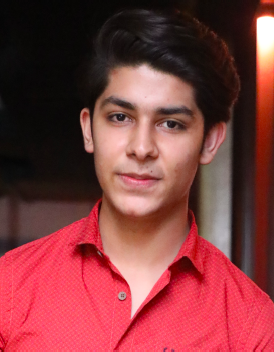
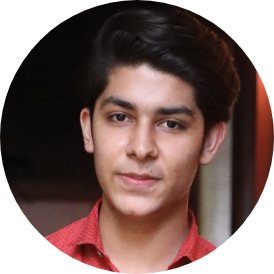
Add files via upload

diff --git a/index.html b/index.html
@@ -1,0 +1,89 @@
+<!DOCTYPE html>
+<html lang="en" dir="ltr">
+  <head>
+    <meta charset="utf-8">
+    <title>Ayush Resume Website</title>
+    <link rel="stylesheet" href="style.css">
+    <link rel="icon" href="favicon.ico">
+    <link href="https://fonts.googleapis.com/css?family=Merriweather|Montserrat|Sacramento&display=swap" rel="stylesheet">
+  </head>
+  <body>
+  <div class="top-container">
+  <img class="top-cloud" src="lamp1.png" alt="cloud-img">
+  <h1>I'm Ayush</h1>
+  <h2 id="pro">a <span class="pro">pro</span>grammer.</h2>
+  <img class="bottom-cloud" src="lamp1.png" alt="cloud-img">
+  <img class="abc" src="personcoding.png" alt="mountain-img">
+  </div>
+  <div class="middle-container">
+    <div class="profile">
+      <img class="profilepic" src="ayu.png" alt="profile-pic">
+      <h2>Hello.</h2>
+      <div class="intro">
+        <p> I'm Currently pursuing Bachelor of Technology (B.Tech.) degree from Maharaja Agrasen Institute of Technology in the domain of Electronics and Communication Engineering.</p>
+        <p> Looking for opportunities in the programming and development sector.</p>
+        <p> I am tech-savvy and tech-enthusiast, who's always ready to explore new opportunities and accept new challenges.</p>
+        <p> I am Hardworking, Smart, Delligent and ready to learn. </p>
+
+      </div>
+
+
+
+
+
+      </div>
+      <hr>
+      <div class="skills">
+
+      <h2>My Skills.</h2>
+
+      <div class="skill-row">
+
+        <img class="skillimg" src="giphy1.gif" alt="">
+        <h3>DESIGN AND DEVELOPMENT</h3>
+        <p>I was always keen towards learning coding. I started with C++, C, Python and JAVA. Then did a bit of swift (iOS) and now am currently working on my skills as a fullstack WEB Developer.</p>
+      </div>
+
+      <div class="skill-row">
+        <img class="skillimg2" src="giphy3.gif" alt="">
+        <h3>GAMING</h3>
+        <p class="gamingdes">Since Childhood, One thing has been my passion that is Gaming. I Just Love Gaming, Online Games, Offline games, you just name it ; I've got it. Since i liked gaming, i have developed spome basic games as well, like TIC TAC TOE on JAVA, A color guessing game on Java Script and a Memory Game on Java Script. Currently I am working on a Flappy Bird on Python and AI to surpass it.</p>
+      </div>
+
+    </div>
+        <!-- <h3>EDUCATION</h3>
+        <p>CLASS X - DPS MATHURA ROAD</p>
+        <p>CLASS XII - DPS MATHURA ROAD</p>
+        <h3>EXPERIENCE</h3>
+        <p>Intern - RITES</p> -->
+
+
+        <hr>
+    <div class="Experience">
+      <h2>MY PROJECTS</h2>
+      <img class = "project" src="dating.png" alt="Dating Site">
+      <img class = "project" src="color.png" alt="Color Guesser Game">
+      <img class = "project" src="blog.png" alt="Photo Blog Website">
+
+    </div>
+      <hr>
+
+    <div class="contact-me">
+      <h2>Get In Touch</h2>
+      <h3>If you Love Gaming as much as I do!</h3>
+      <p id="down">Let's Play a match or two after we get your code done!</p>
+      <a class="btn" href="mailto:vayush223@gmail.com">CONTACT ME</a>
+    </div>
+  </div>
+
+  <div class="bottom-container">
+    <a class="footer-link" href="https://www.linkedin.com/meayushverma">LinkedIn</a>
+    <a class="footer-link" href="https://twitter.com/">Twitter</a>
+    <a class="footer-link" href="https://Instagram.com/meayushverma">Instagram</a>
+    <p class="copyright">© 2018 Ayush Verma.</p>
+  </div>
+
+
+
+  </body>
+</html>

diff --git a/style.css b/style.css
@@ -1,0 +1,216 @@
+body{
+margin:0;
+text-align: center;
+font-family: 'Merriweather', serif;
+background-color: #E7EFFC;
+}
+
+h1{
+margin: 50px auto 0 auto;
+font-family: 'Sacramento', cursive;
+font-size: 5.625rem;
+color: #051E3E;
+}
+
+h2{
+  font-family: 'Montserrat', sans-serif;
+  font-size: 2.5rem;
+  color: #051E3E;
+  padding-bottom: 10px;
+}
+
+h3{
+
+  font-family: 'Montserrat', sans-serif;
+  color: #2A4D69;
+}
+
+p{
+  line-height: 2;
+  color: #283655;
+
+}
+
+
+a{
+  color: #E7EFFC;
+  font-family: 'Montserrat', sans-serif;
+  text-decoration: none;
+  margin: 40px 10px;
+
+}
+
+a:hover{
+
+  color: #E7EFFC;
+}
+
+hr{
+
+border-style: none;
+border-top-style: dotted;
+border-color: #283655;
+border-width: 6px;
+width: 6%;
+margin: 100px auto;
+}
+
+.abc{
+width: 40%;
+}
+
+.bottom-container{
+
+  background-color: #1E1F26;
+  padding: 50px 0 20px;
+
+}
+
+.bottom-cloud{
+  position: absolute;
+  left: 100px;
+  top: 0;
+  width: 15%;
+
+}
+
+.btn{
+  background: #283655;
+  background-image: -webkit-linear-gradient(top, #283655, #4D648D);
+  background-image: -moz-linear-gradient(top, #283655, #4D648D);
+  background-image: -ms-linear-gradient(top, #283655, #4D648D);
+  background-image: -o-linear-gradient(top, #283655, #4D648D);
+  background-image: linear-gradient(to bottom, #283655, #4D648D);
+  -webkit-border-radius: 8;
+  -moz-border-radius: 8;
+  border-radius: 8px;
+  font-family: 'Montserrat', sans-serif;
+  color: #ffffff;
+  font-size: 20px;
+  padding: 10px 20px 10px 20px;
+  text-decoration: none;
+}
+
+.btn:hover {
+  background: #30e3cb;
+  background-image: -webkit-linear-gradient(top, #1E1F26, #FFFFFF);
+  background-image: -moz-linear-gradient(top, #1E1F26, #FFFFFF);
+  background-image: -ms-linear-gradient(top, #1E1F26, #FFFFFF);
+  background-image: -o-linear-gradient(top, #1E1F26, #FFFFFF);
+  background-image: linear-gradient(to bottom, #1E1F26, #FFFFFF);
+  text-decoration: none;
+}
+
+.contact-me{
+
+  margin: 40px auto 60px;
+  width: 40%;
+}
+
+
+.copyright{
+
+  font-size: 0.75rem;
+  color: #EAF6F6;
+  padding: 20px 0px;
+}
+
+#down{
+
+  margin-bottom: 50px;
+}
+
+.Experience{
+
+  margin: 200px auto 200px auto;
+
+}
+
+
+.gamingdes{
+  font-size: 14px;
+}
+
+.intro{
+  text-align: left;
+  width : 50%;
+  margin: auto;
+}
+
+
+.middle-container{
+  margin: 100px 0;
+  background-color: #E7EFFC;
+}
+
+
+.profilepic{
+border-radius: 100%;
+
+}
+
+.profile{
+  width:50%;
+  margin: auto;
+  padding: 50px;
+
+}
+
+.pro{
+  text-decoration: underline;
+}
+
+
+.project{
+
+  display: inline;
+
+  margin: 10px 10px 10px 10px;
+  border: 5px solid;
+  height: 16.25rem;
+
+}
+
+#pro{
+font-weight: normal;
+line-height: 2;
+
+}
+
+.skill-row{
+width: 50%;
+margin: 100px auto 100px auto;
+text-align: left;
+}
+
+.skillimg{
+  border-radius: 200%;
+  width:25%;
+  float:left;
+  margin-right: 30px;
+  margin-top: 60px;
+}
+
+.skillimg2{
+  border-radius: 100%;
+  float: right;
+  width: 25%;
+  margin-top: 60px;
+
+}
+
+.top-container{
+  position: relative;
+  background-color: #D0E1F9;
+  padding-top: 100px;
+
+}
+
+
+.top-cloud{
+  position: absolute;
+  right: 100px;
+  top: 0px;
+  width: 15%;
+
+}
